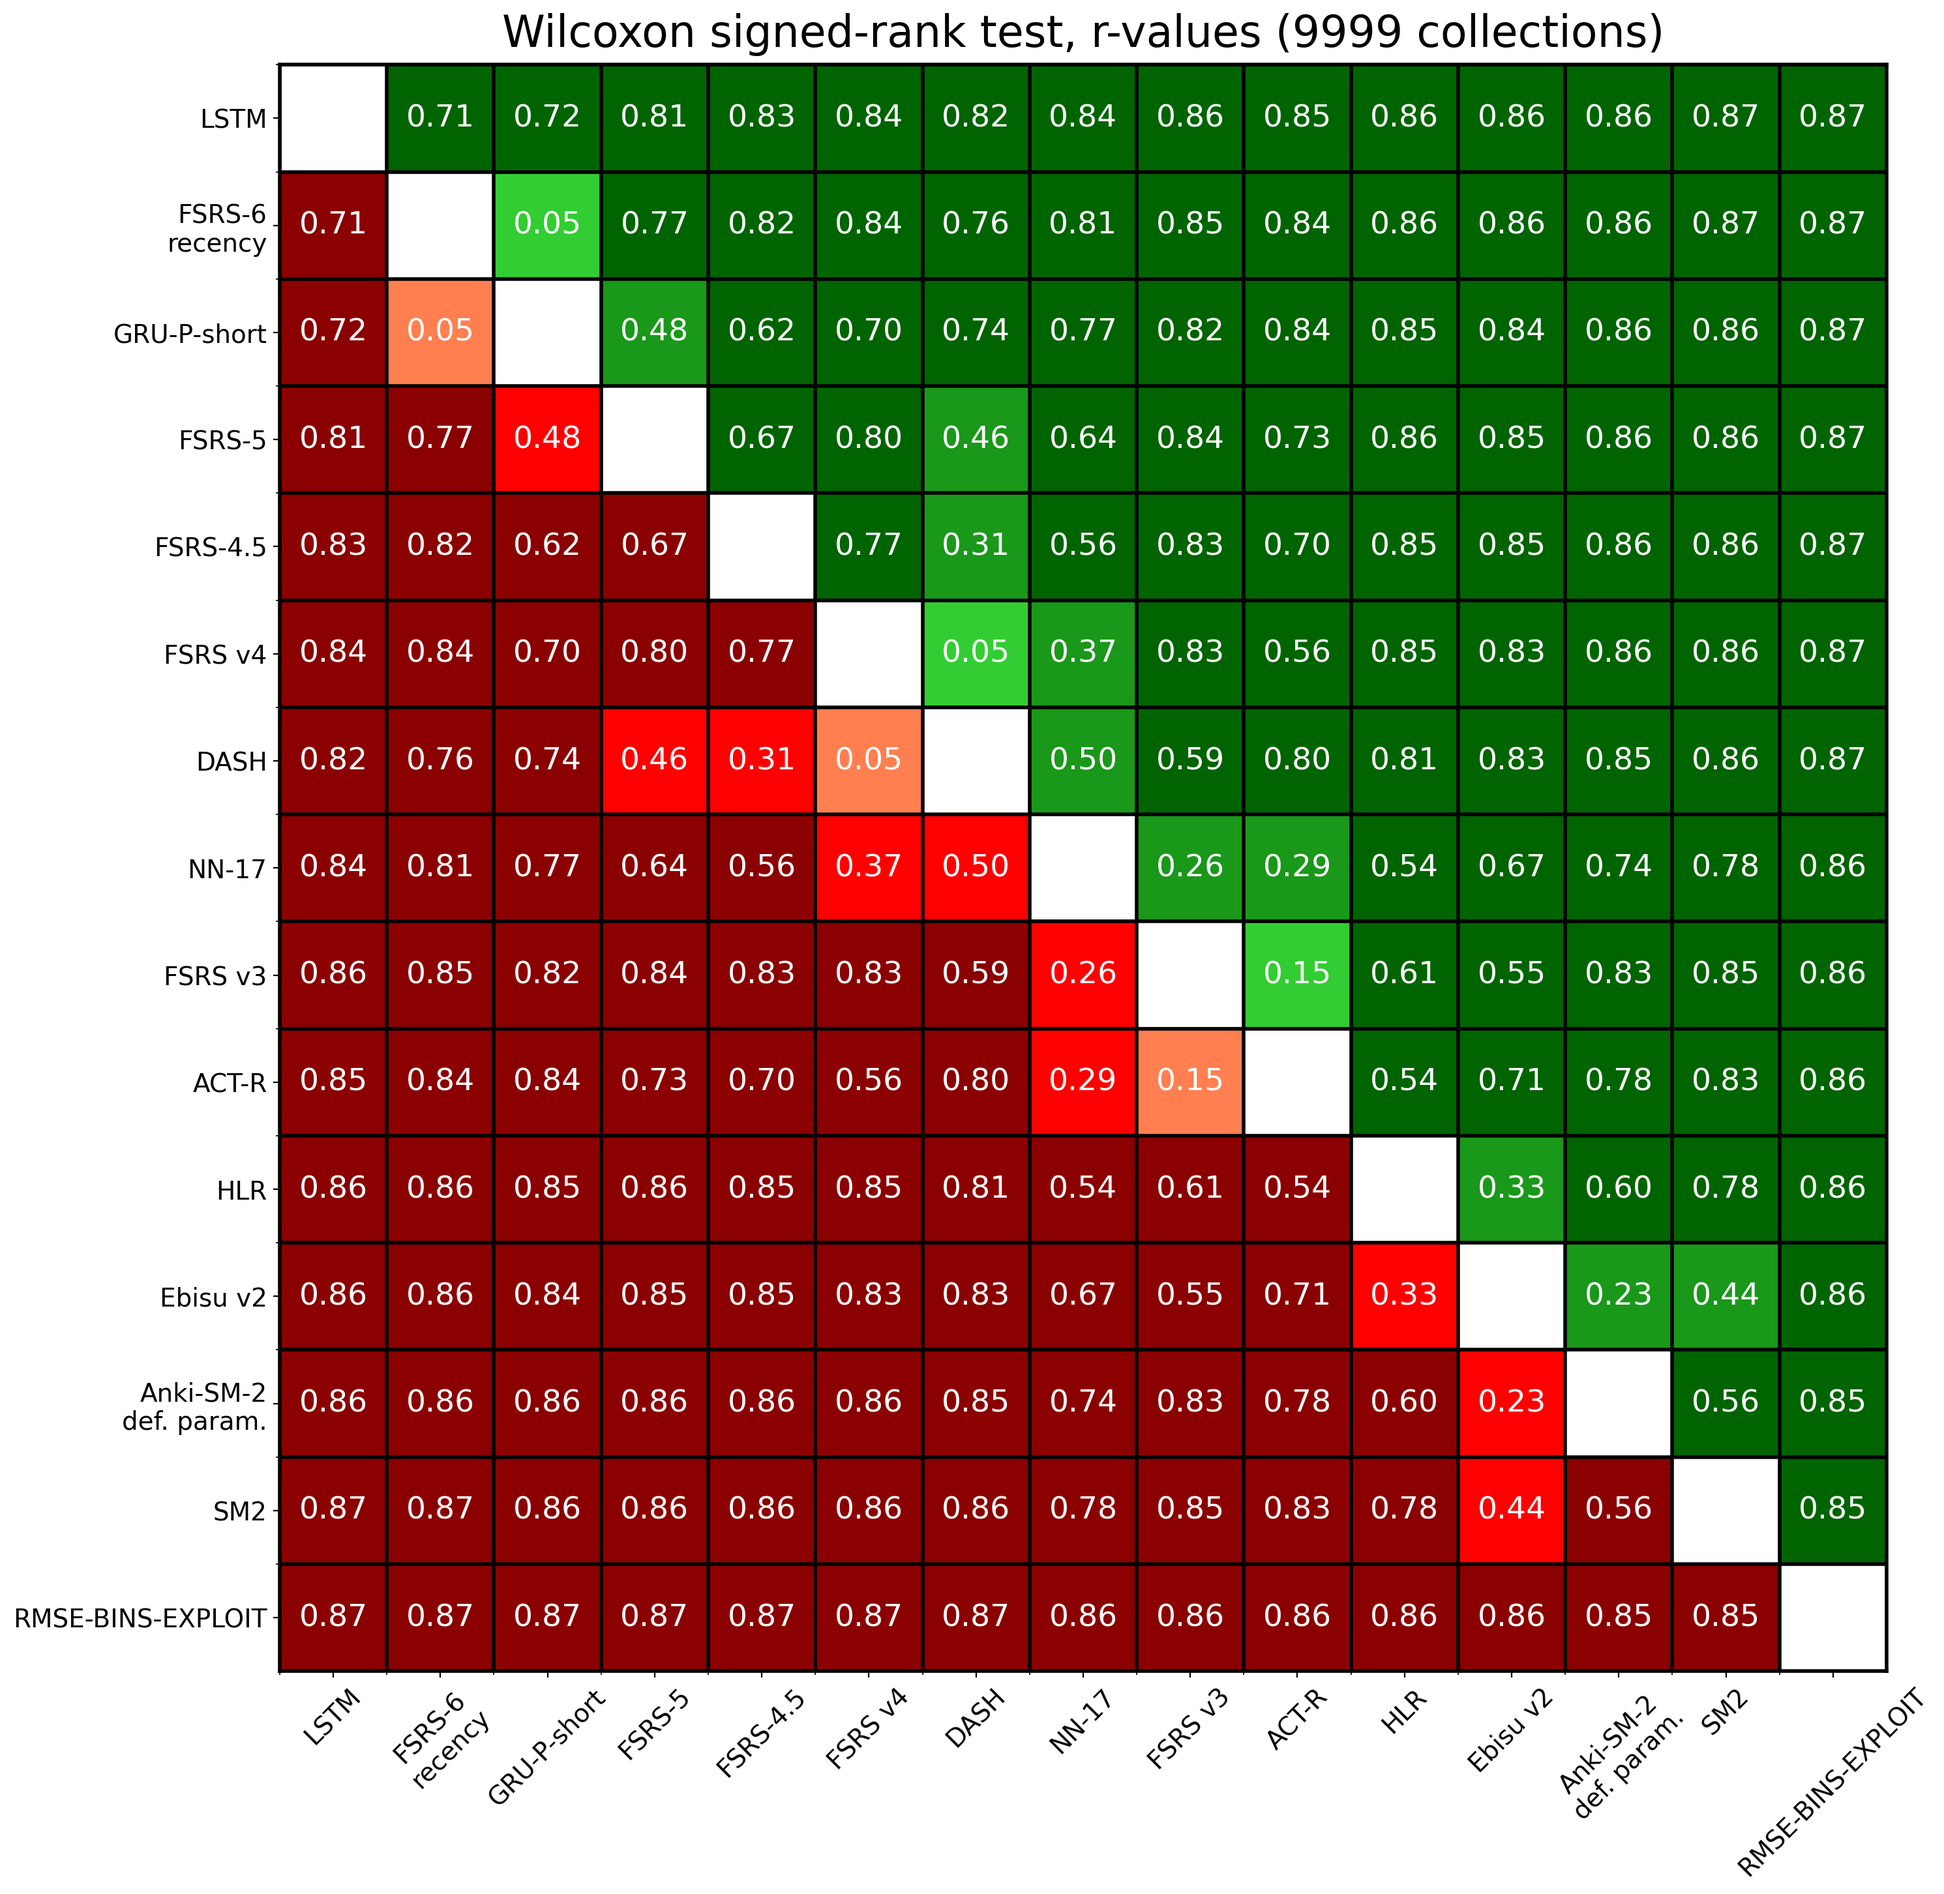
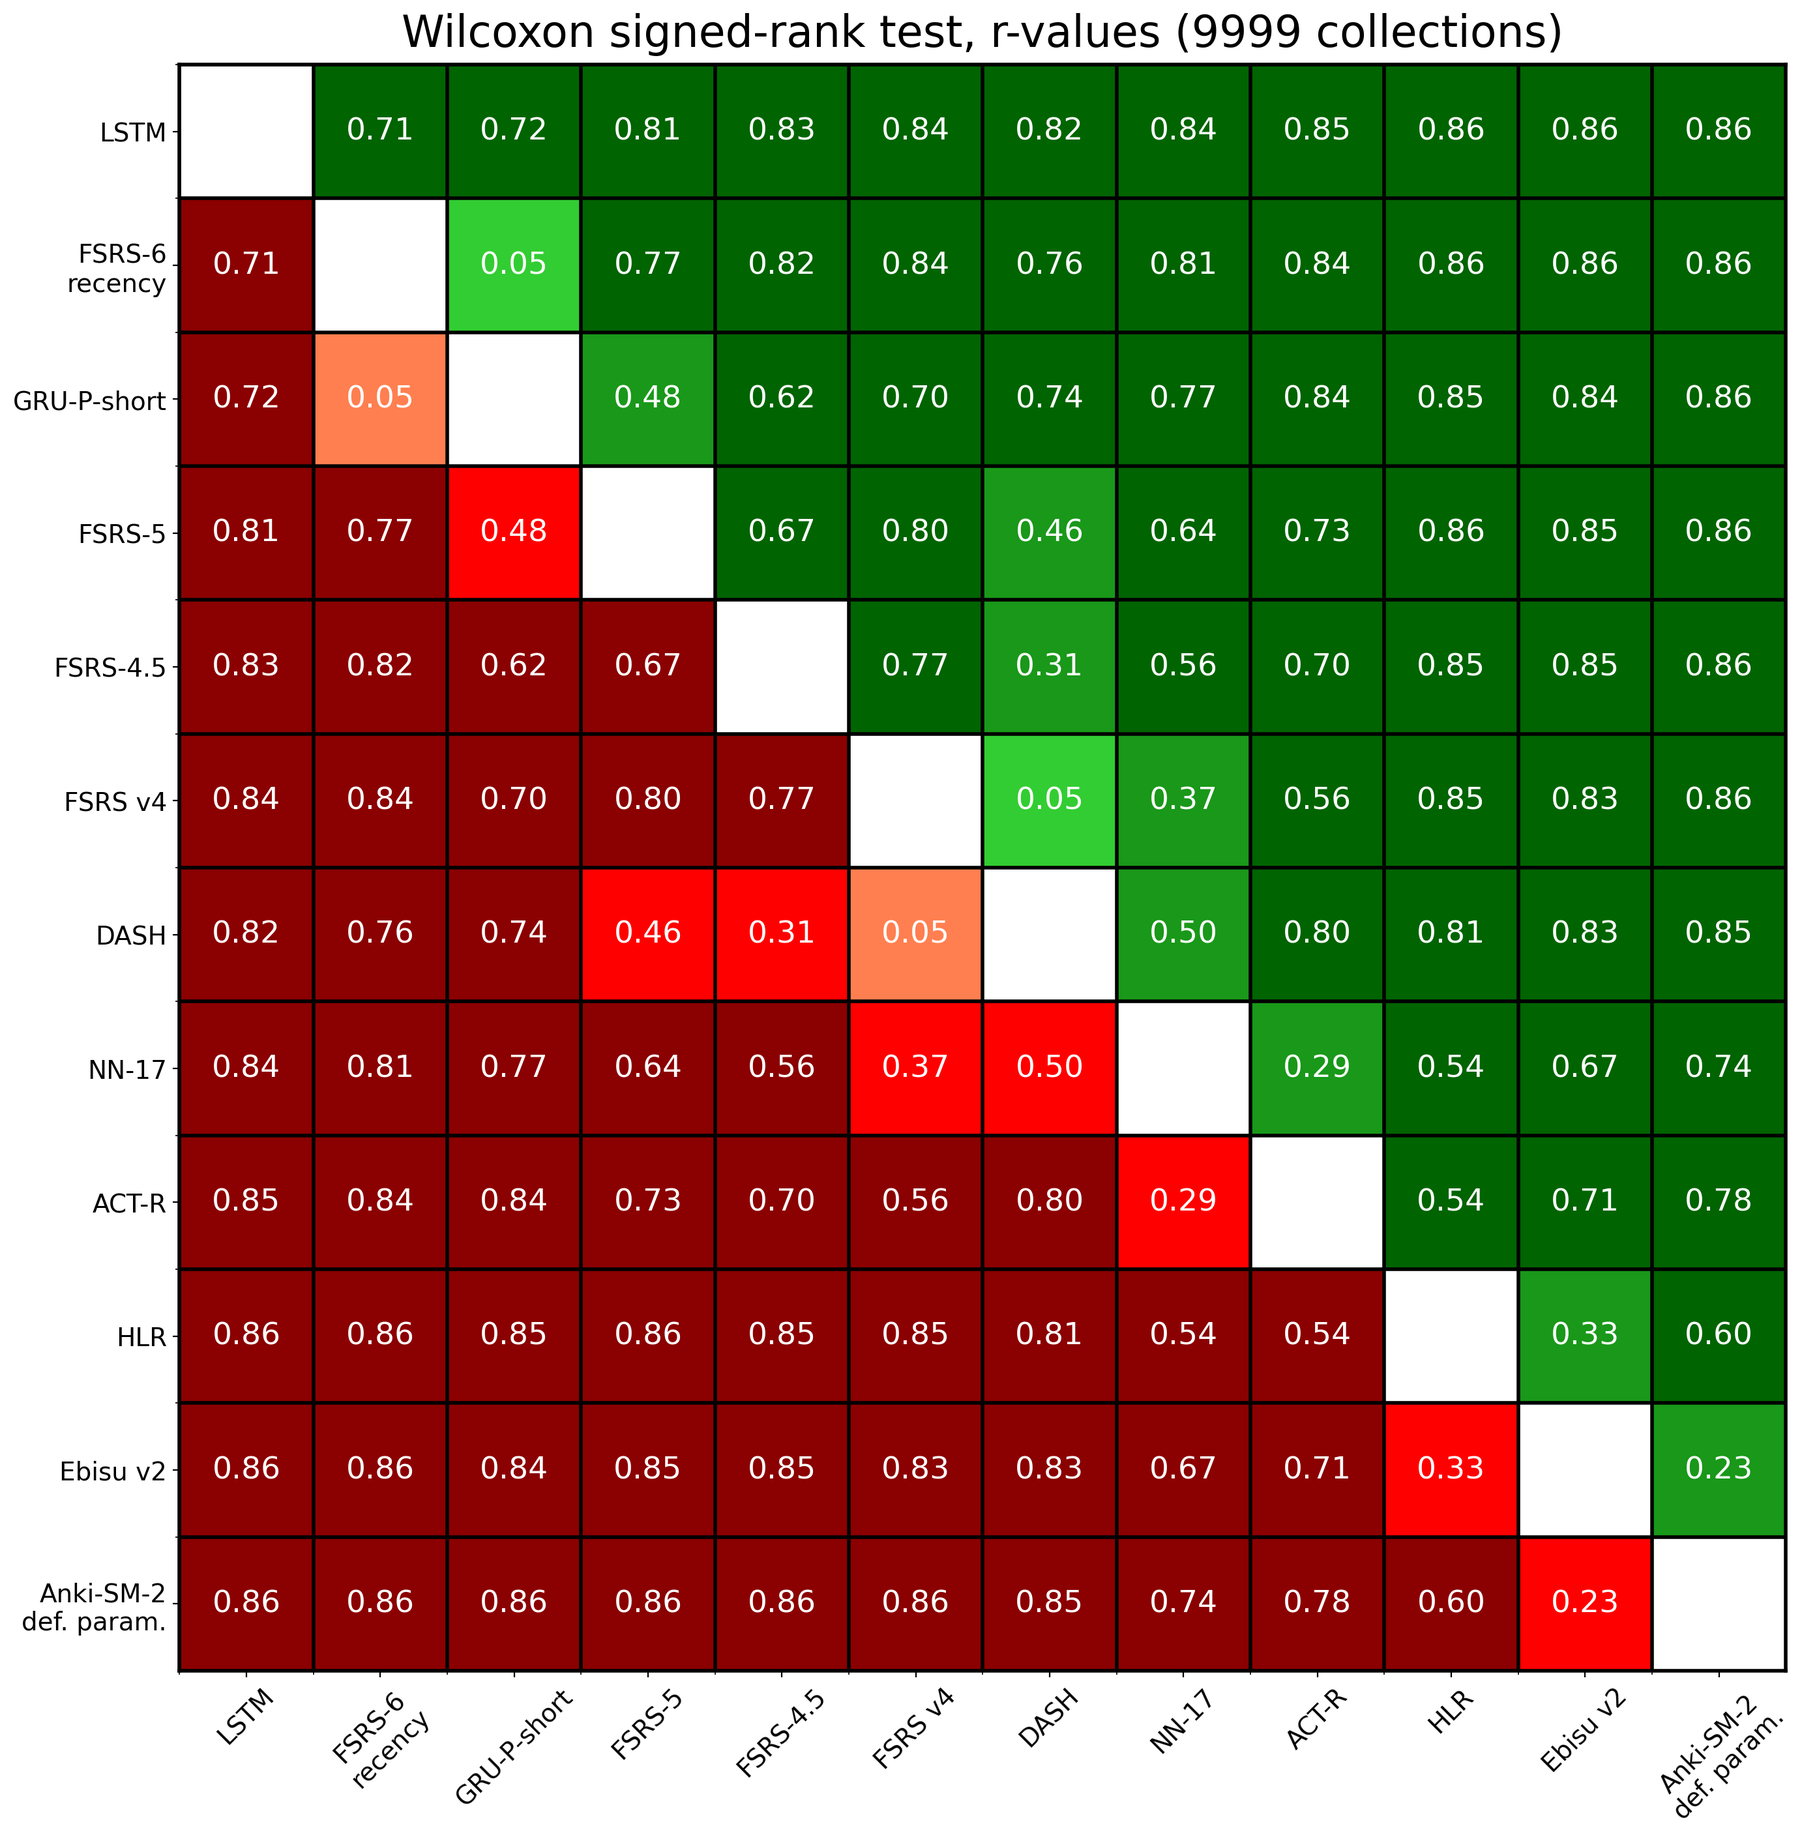
remove FSRSv3 & SM2 & RMSE-BINS-EXPLOIT

diff --git a/significance_table_small.py b/significance_table_small.py
@@ -61,13 +61,10 @@ if __name__ == "__main__":
         "FSRSv4",
         "DASH",
         "NN-17",
-        "FSRSv3",
         "ACT-R",
         "HLR",
         "Ebisu-v2",
         "Anki-dry-run",
-        "SM2",
-        "RMSE-BINS-EXPLOIT",
     ]
     csv_name = f"{len(models)} models.csv"
     print(f"Number of tests={(len(models)-1) ** 2}")
@@ -139,13 +136,11 @@ if __name__ == "__main__":
     index_lstm = models.index("LSTM-short-secs-equalize_test_with_non_secs")
     index_anki_dry_run = models.index("Anki-dry-run")
     index_v4 = models.index("FSRSv4")
-    index_v3 = models.index("FSRSv3")
     index_Ebisu_v2 = models.index("Ebisu-v2")
     index_FSRS_6_recency = models.index("FSRS-6-recency")
     models[index_lstm] = "LSTM"
     models[index_anki_dry_run] = "Anki-SM-2\ndef. param."
     models[index_v4] = "FSRS v4"
-    models[index_v3] = "FSRS v3"
     models[index_Ebisu_v2] = "Ebisu v2"
     models[index_FSRS_6_recency] = "FSRS-6\nrecency"
 

diff --git a/superiority_small.py b/superiority_small.py
@@ -20,13 +20,10 @@ if __name__ == "__main__":
         "FSRSv4",
         "DASH",
         "NN-17",
-        "FSRSv3",
         "ACT-R",
         "HLR",
         "Ebisu-v2",
         "Anki-dry-run",
-        "SM2",
-        "RMSE-BINS-EXPLOIT",
     ]
     csv_name = f"{len(models)} models.csv"
 
@@ -108,13 +105,11 @@ if __name__ == "__main__":
     index_lstm = models.index("LSTM-short-secs-equalize_test_with_non_secs")
     index_anki_dry_run = models.index("Anki-dry-run")
     index_v4 = models.index("FSRSv4")
-    index_v3 = models.index("FSRSv3")
     index_Ebisu_v2 = models.index("Ebisu-v2")
     index_FSRS_6_recency = models.index("FSRS-6-recency")
     models[index_lstm] = "LSTM"
     models[index_anki_dry_run] = "Anki-SM-2\ndef. param."
     models[index_v4] = "FSRS v4"
-    models[index_v3] = "FSRS v3"
     models[index_Ebisu_v2] = "Ebisu v2"
     models[index_FSRS_6_recency] = "FSRS-6\nrecency"
 
